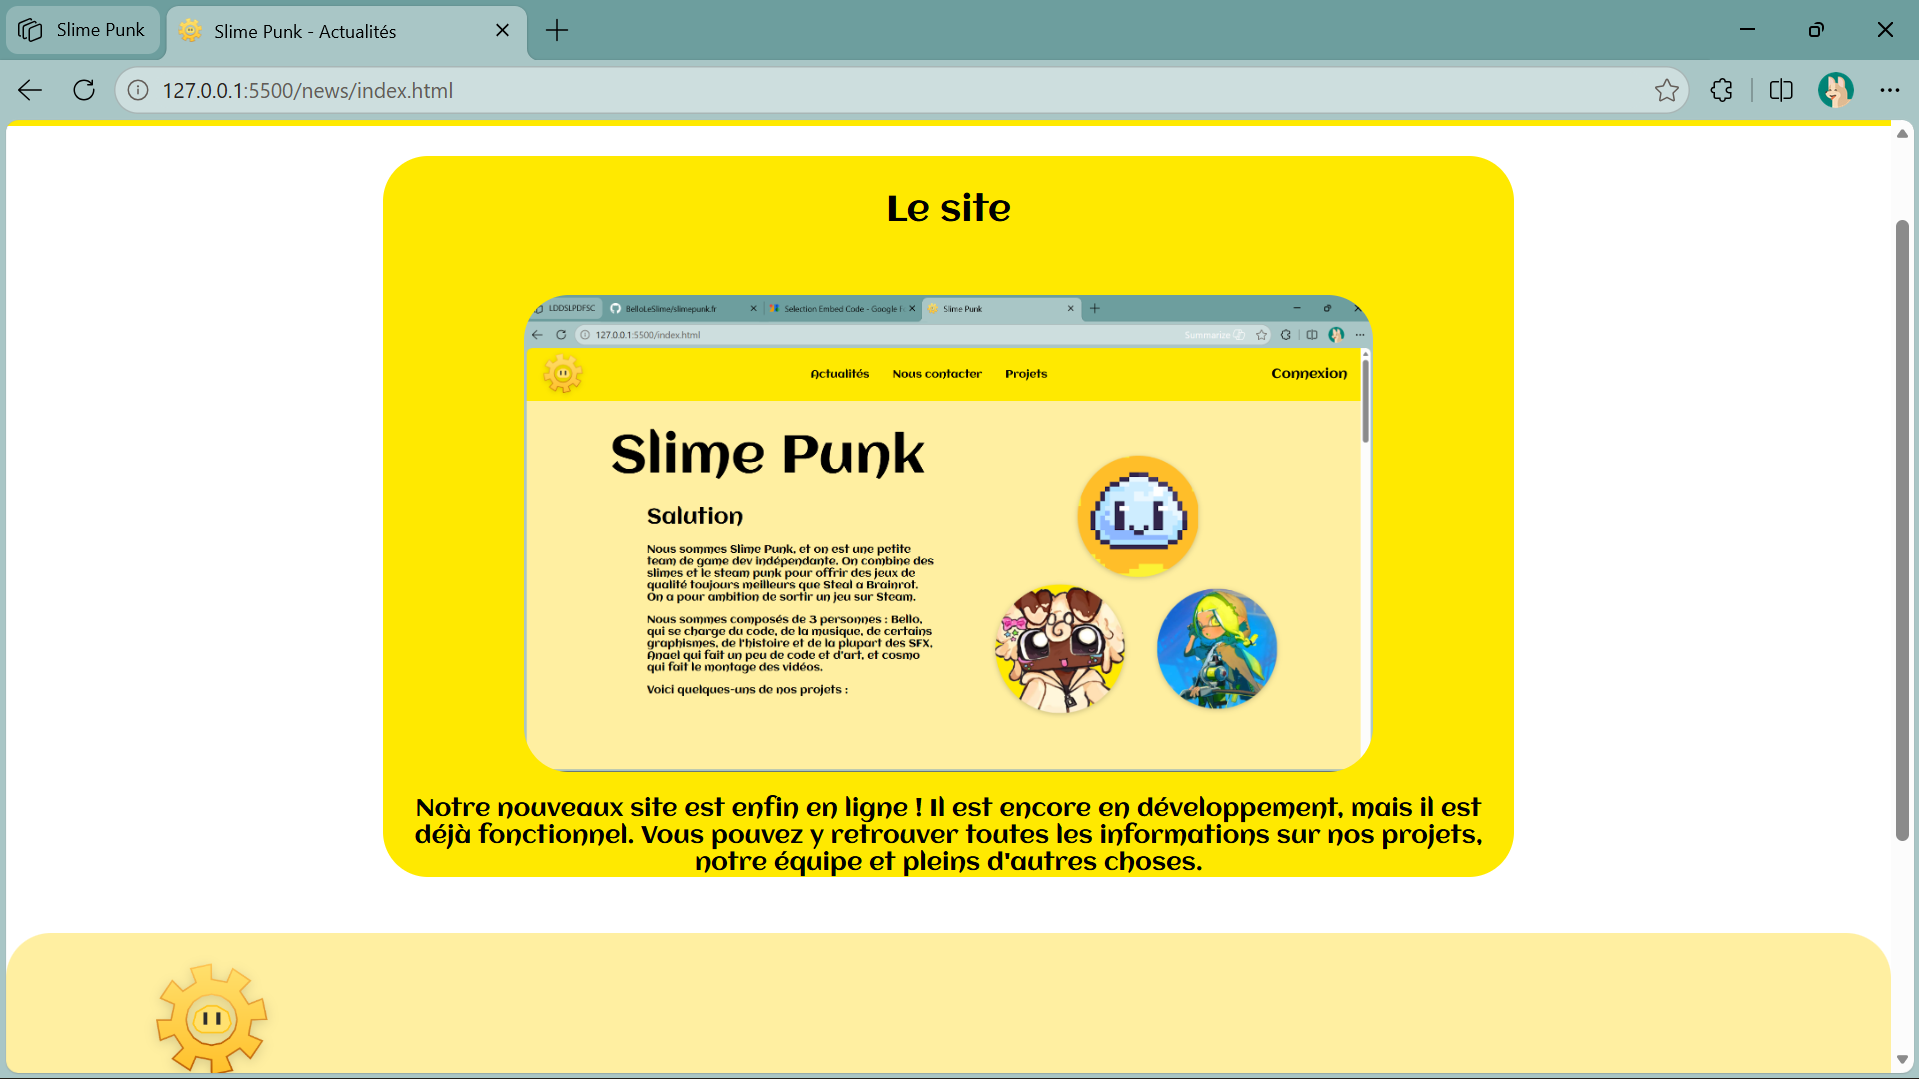
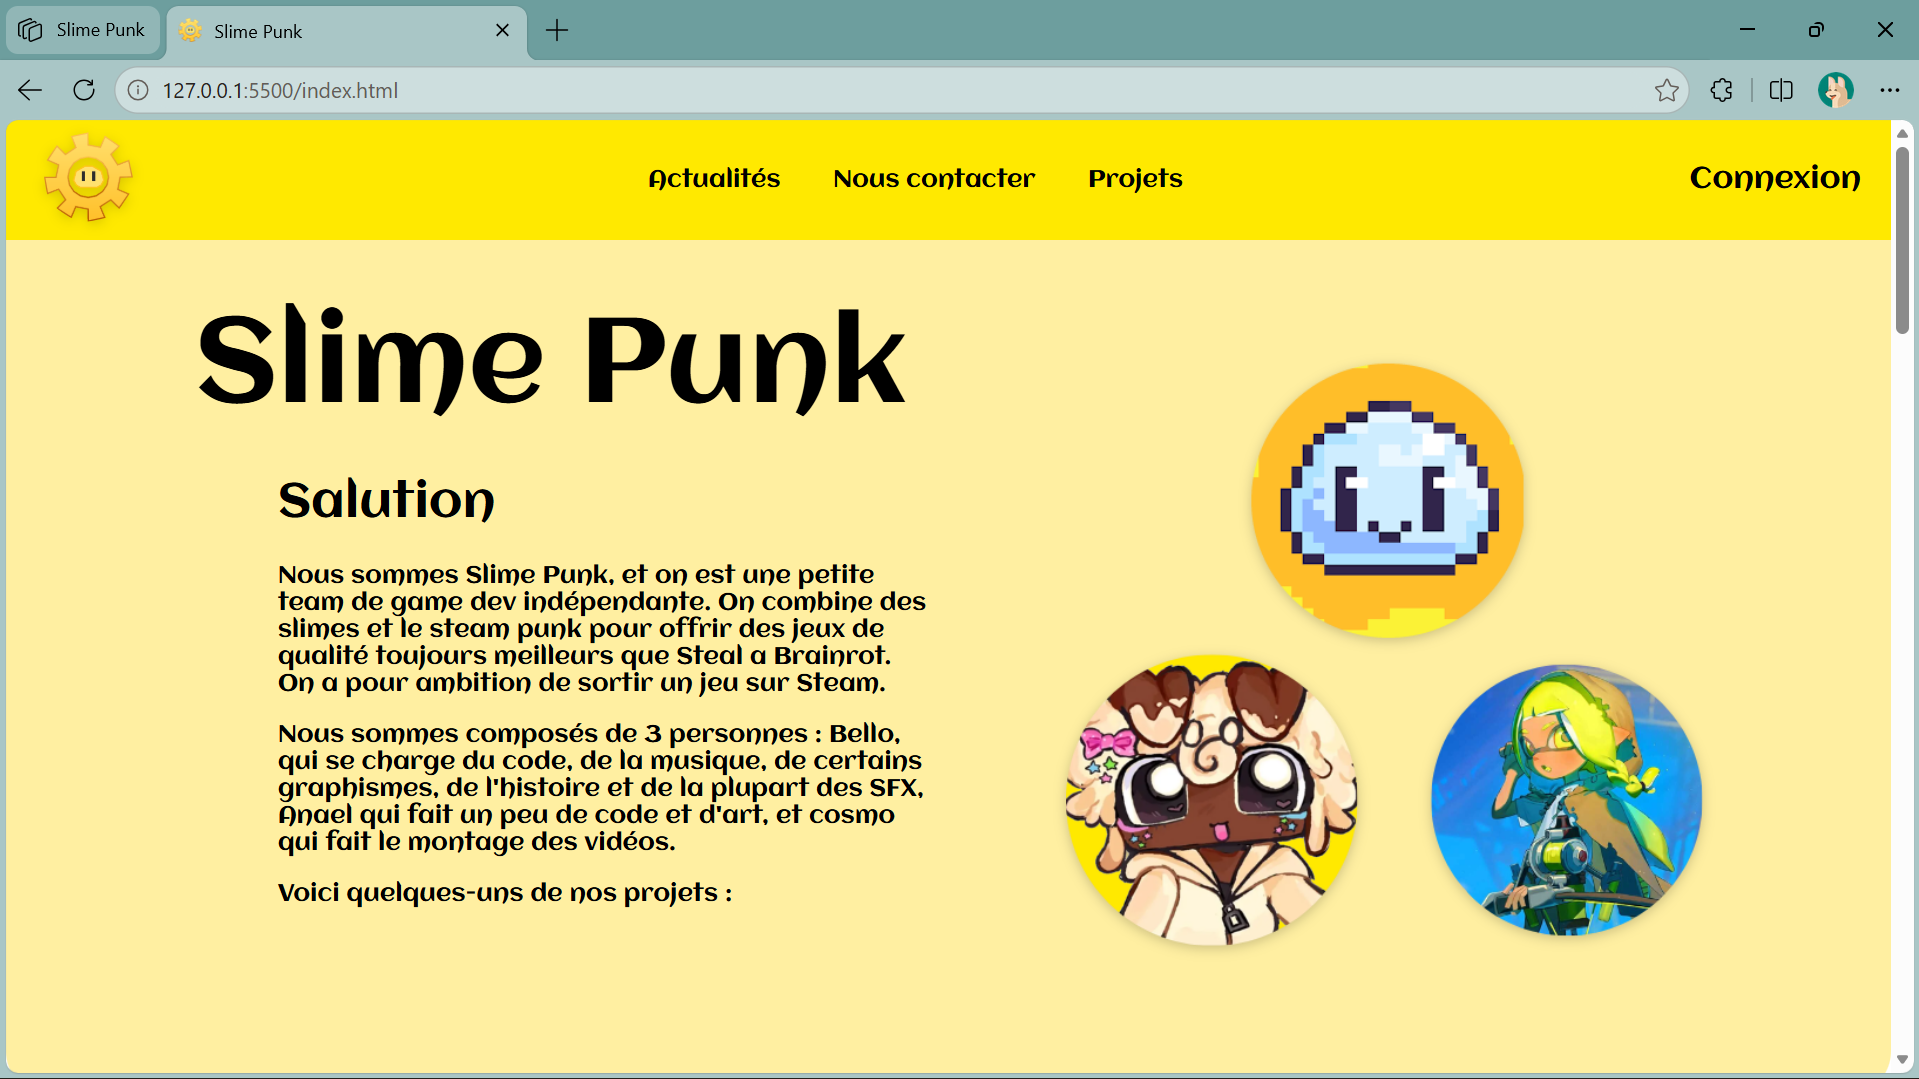
Supression du fichier Scientifiborg_Y.webp; Correction d'un lien d'une image du à la supression du fichier siter présédament; Ajout d'une nouvelle actualiter

diff --git a/news/index.html b/news/index.html
@@ -33,6 +33,15 @@
             </p>
             </a>
         </div>
+        <div class="project">
+            <h2 class="title_project">Nouvelle vidéo</h2>
+            <img src="../img/site.png" alt="Screenshot de la vidéo">
+            <p class="description_project">
+                 La première nouvelle vidéo, ou presque (je suis entrain de la tourné quand j'écris ces lignes). C'est la vidéo de présentation du site, elle est (ducoup sera) disponible sur la chaîne YouTube de Slime Punk.
+            </p>
+            <p class="member_links">Liens : <a href="https://www.youtube.com/@bello-le-slime">YouTube</a></p>
+            </a>
+        </div>
     </main>
     <footer>
         <img src="../img/icon.png" alt="logo" id="footer_logo">

diff --git a/projects/bazar_de_bello/sby/index.html b/projects/bazar_de_bello/sby/index.html
@@ -39,7 +39,7 @@
         </p>
     </div>
     <div id="project_screenshots">
-        <img src="../../../img/Scientifiborg_Y.webp" alt="Logo de ScientifiBot Y" class="project_screenshot"></div>
+        <img src="../../../img/sby.webp" alt="Logo de ScientifiBot Y" class="project_screenshot"></div>
     </main>
     <footer>
         <img src="../../../img/icon.png" alt="logo" id="footer_logo">
